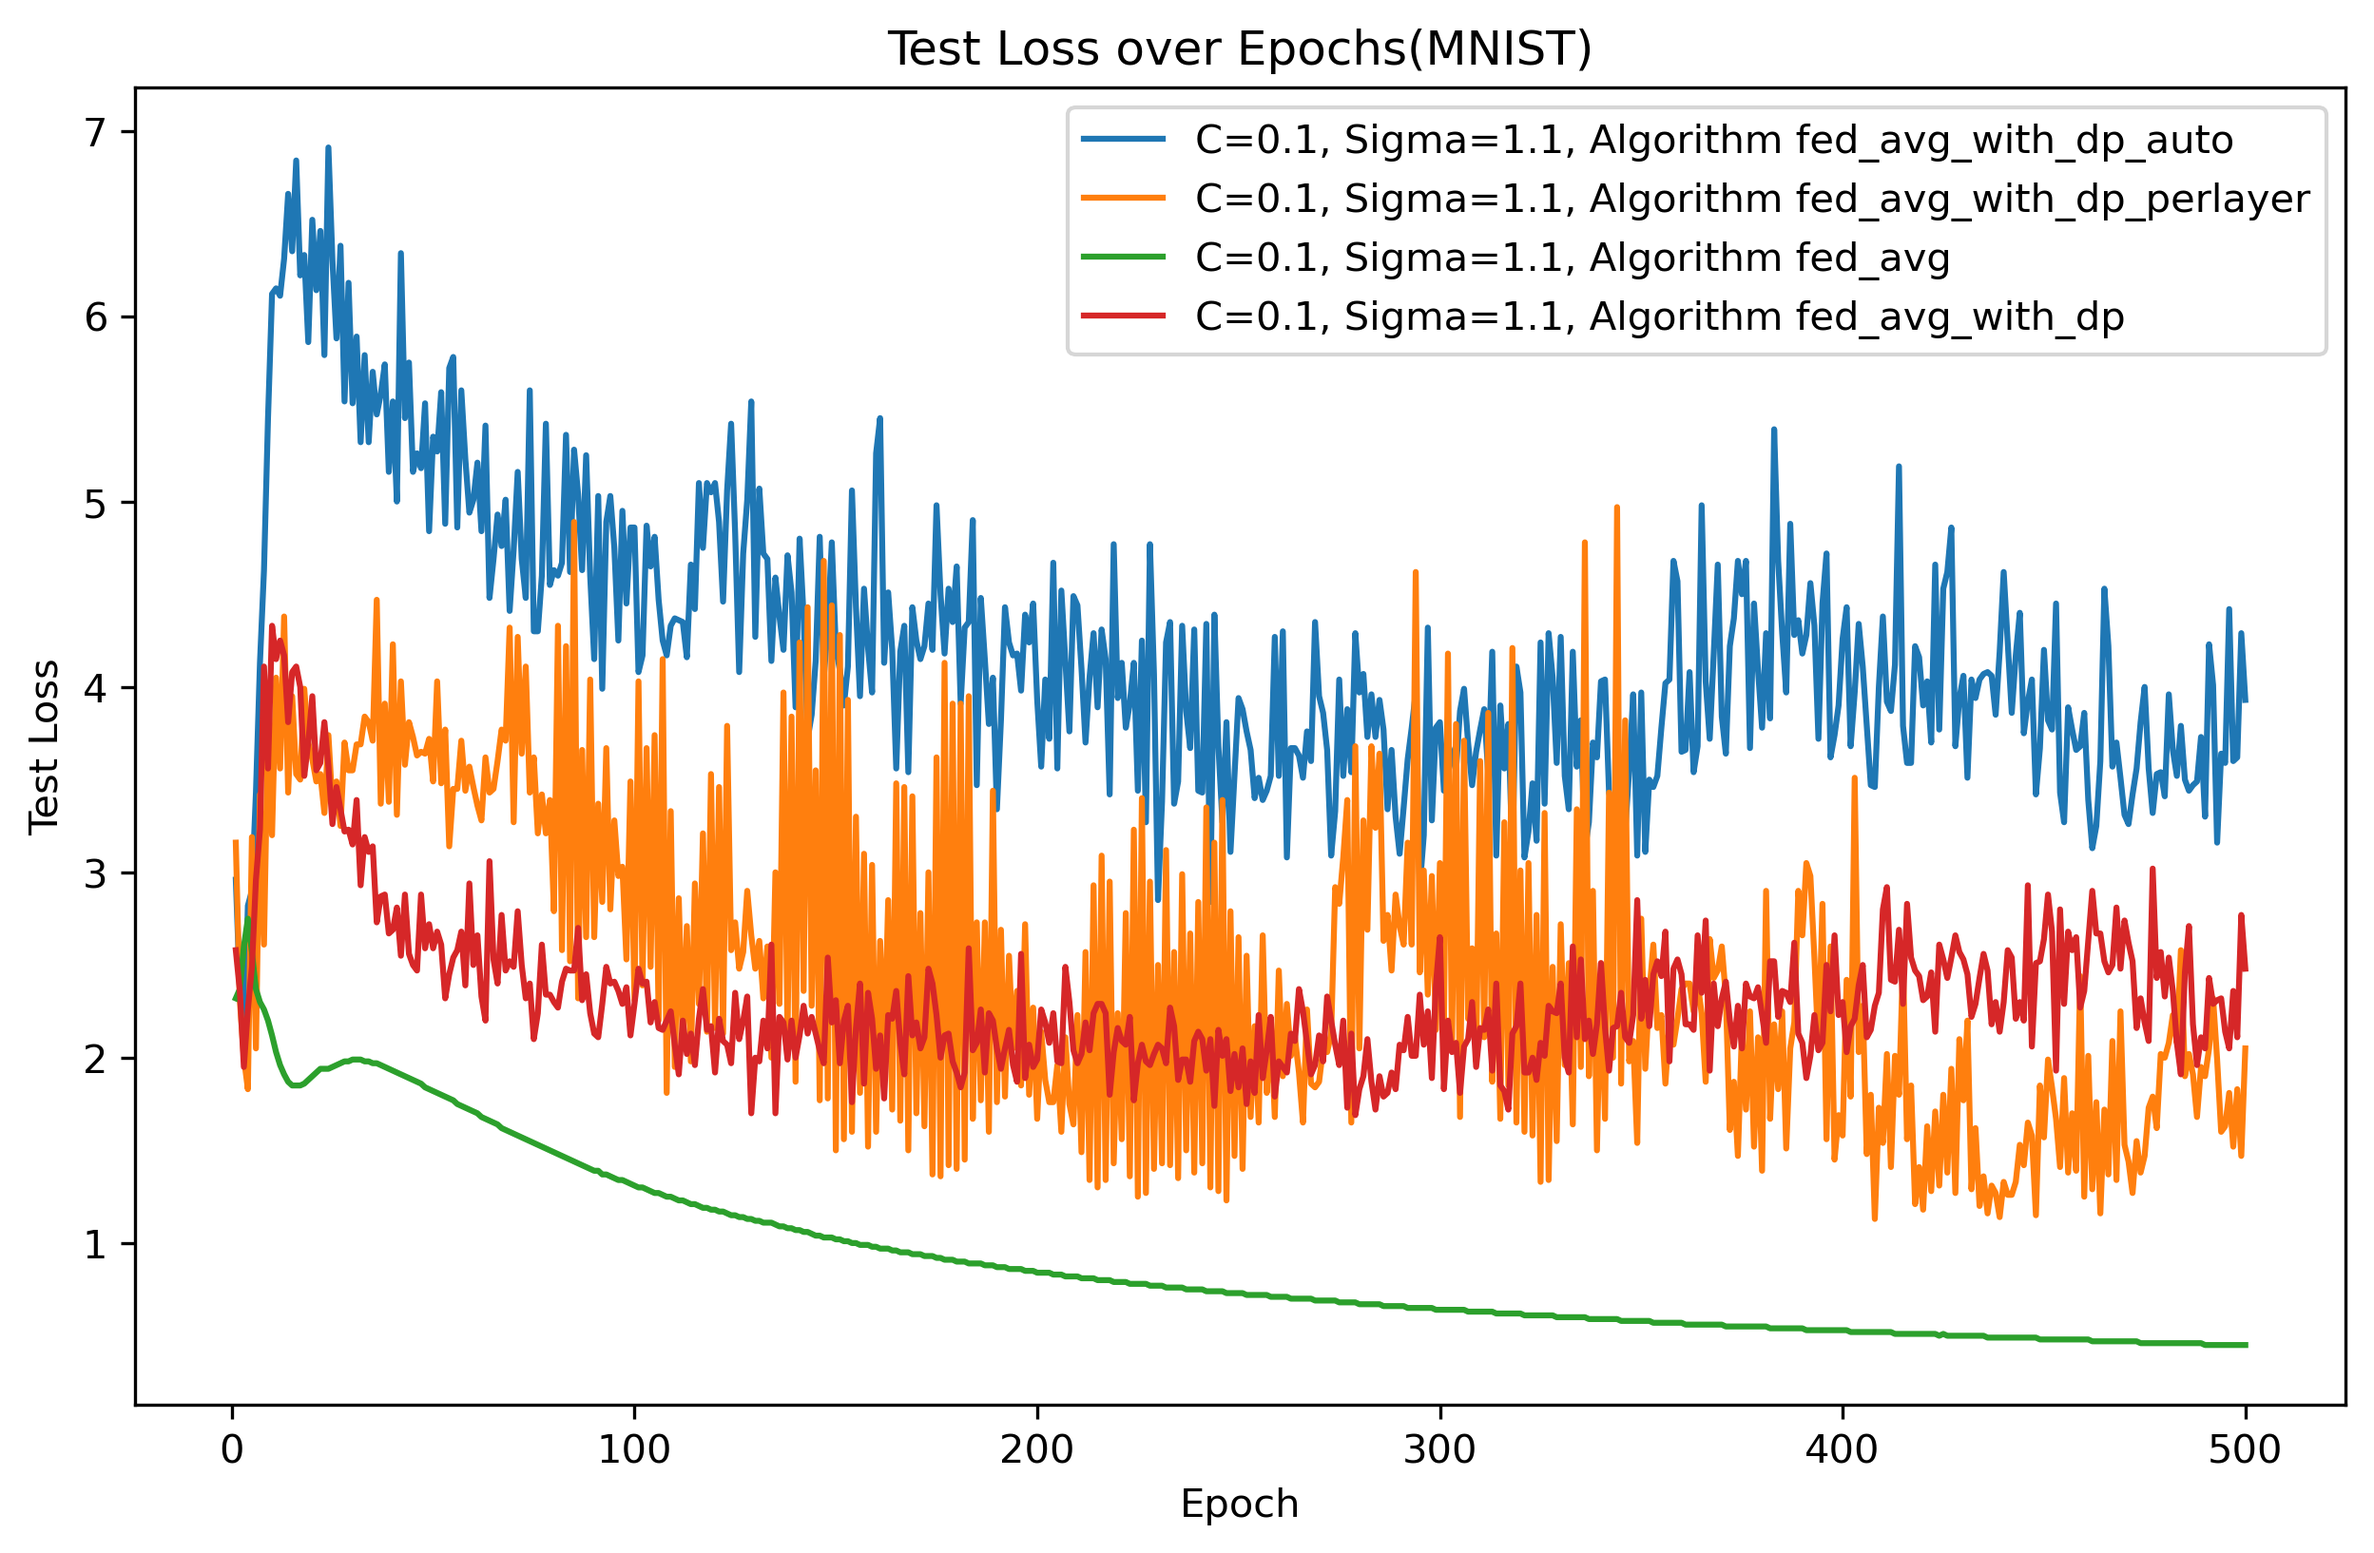
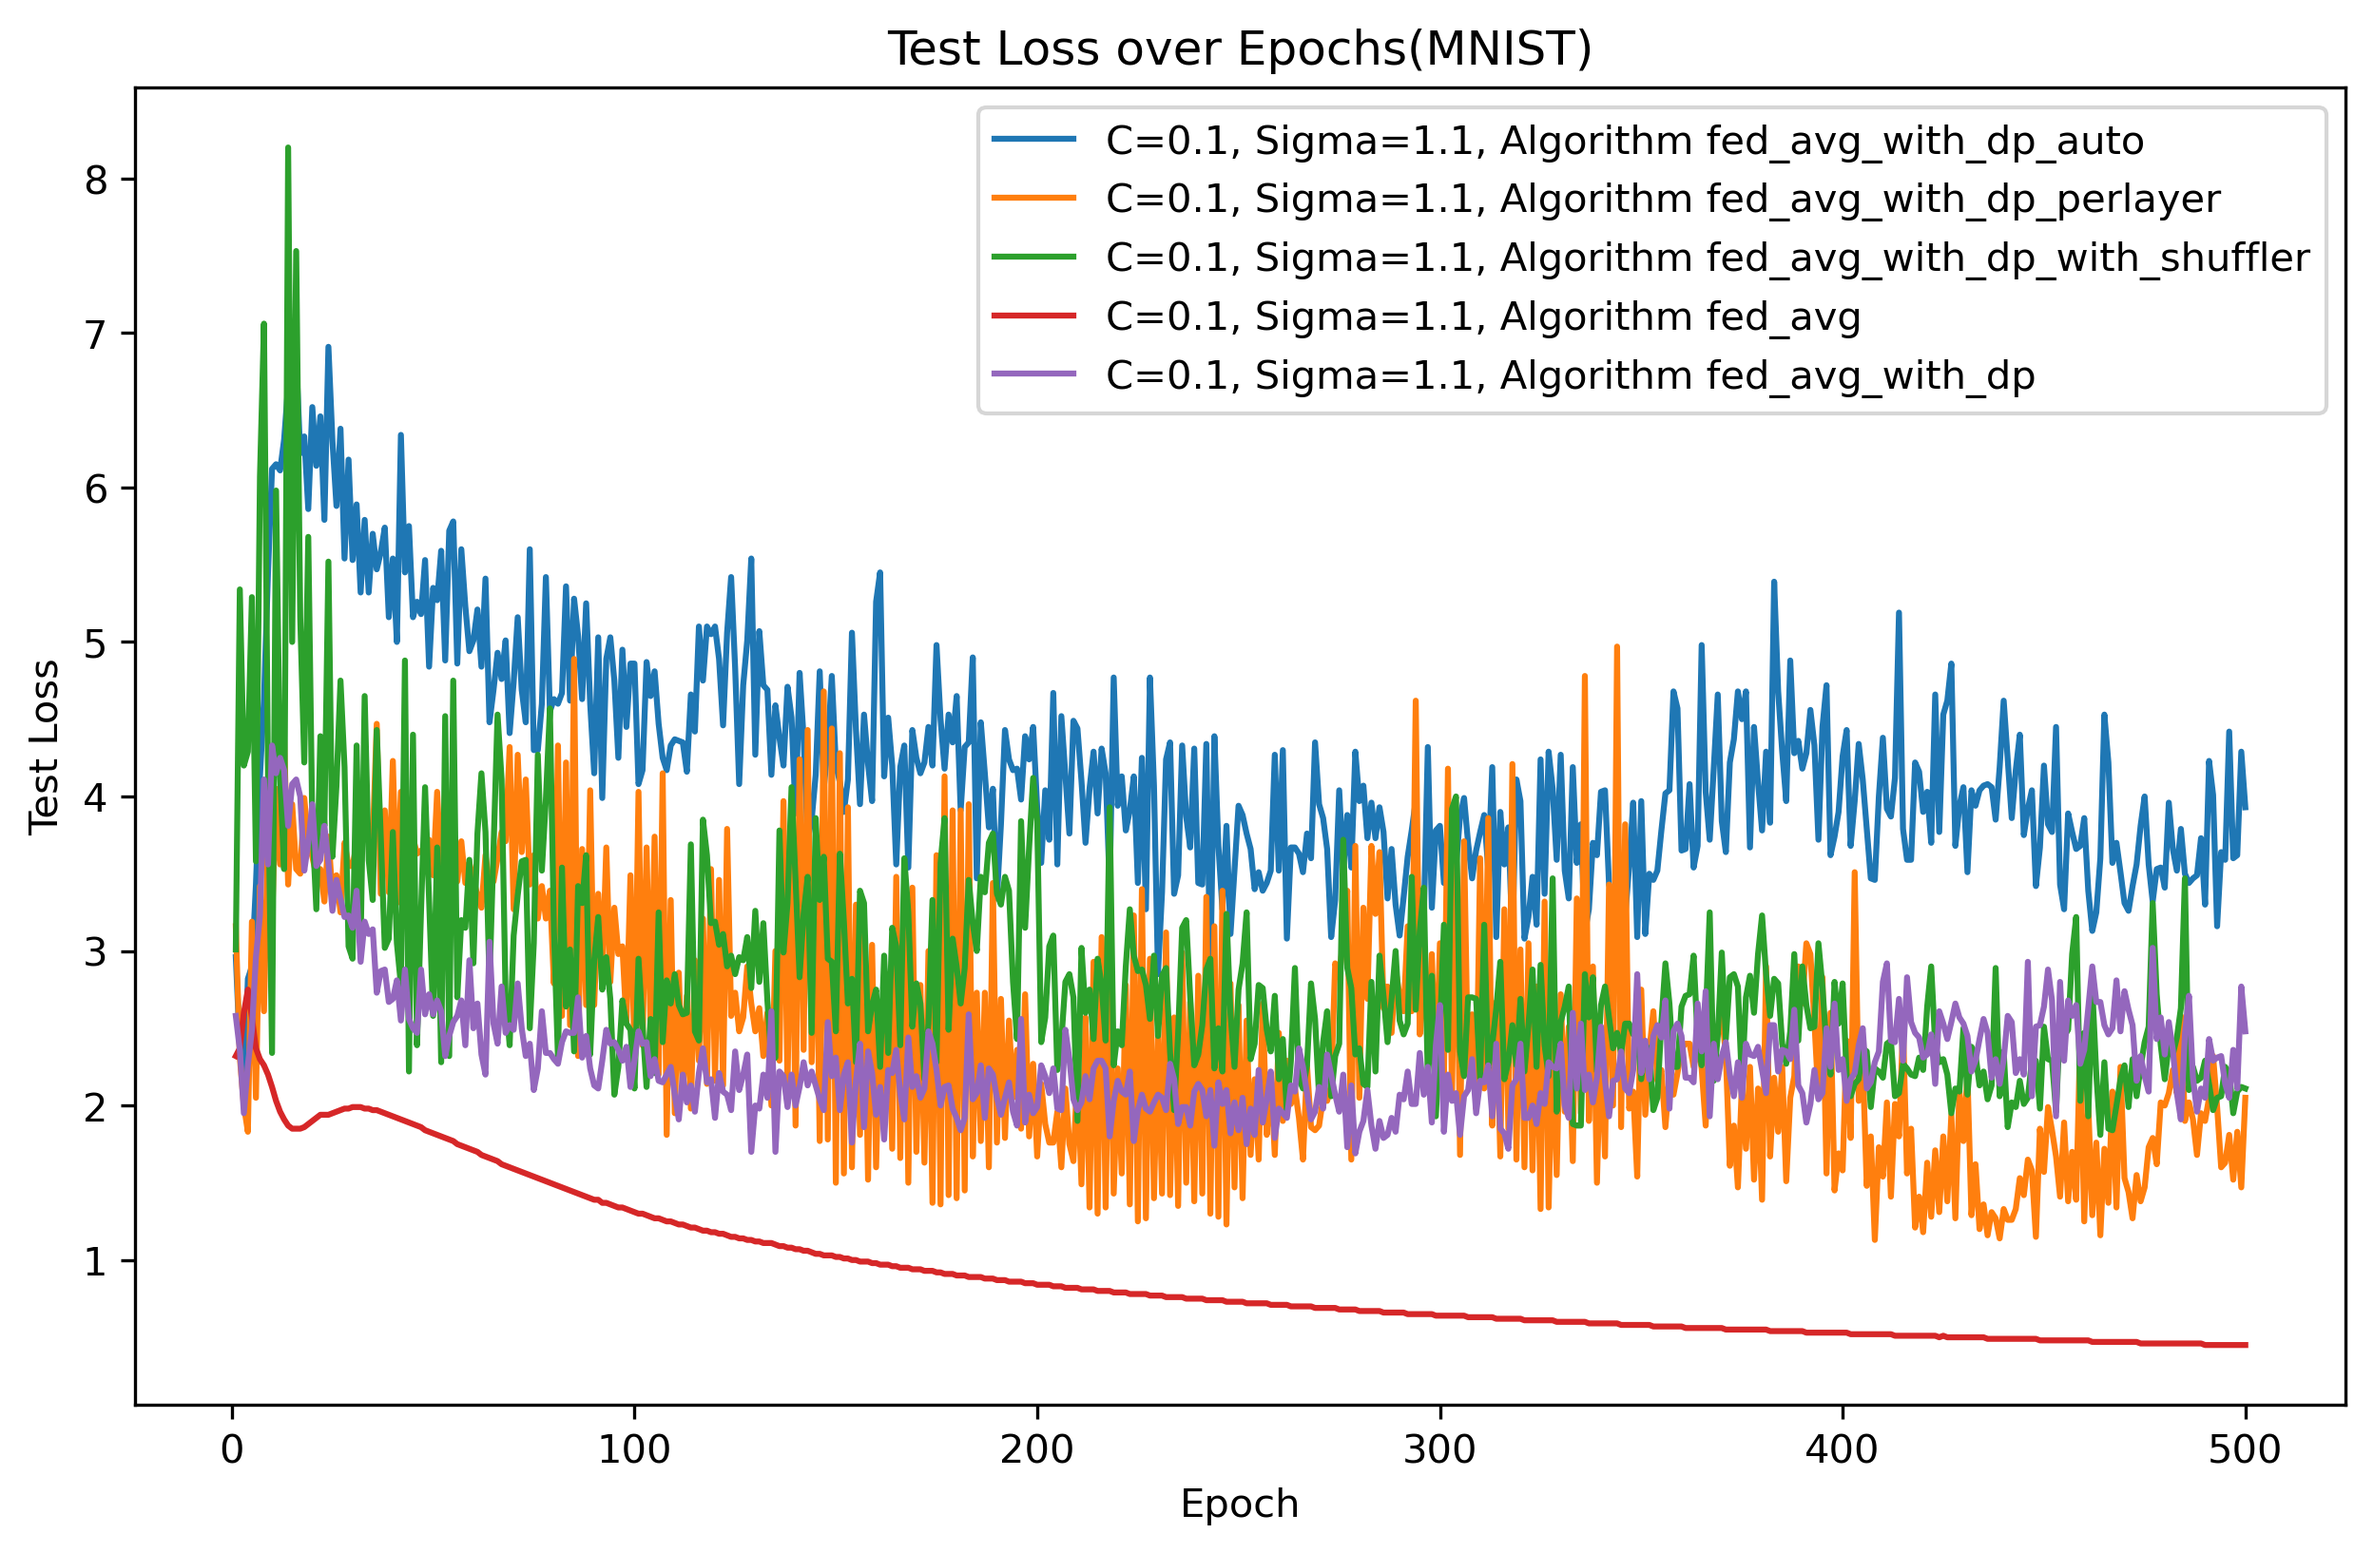
chore: complete the test_acc/loss image of MNIST dataset(max_norm=0.1_sigma=1.1)

diff --git a/log/plot_loss.py b/log/plot_loss.py
@@ -3,7 +3,7 @@ import pandas as pd
 import os
 import re  # 导入正则表达式模块
 
-directory = './FMNIST/lr=0.001'  # CSV文件目录
+directory = './MNIST/max_norm=0.1_sigma=1.1'  # CSV文件目录
 plt.figure(figsize=(10, 6))  # 设置图形大小
 
 for filename in os.listdir(directory):
@@ -30,7 +30,7 @@ for filename in os.listdir(directory):
 
 plt.xlabel('Epoch')  # 设置X轴标签
 plt.ylabel('Test Loss')  # 设置Y轴标签
-plt.title('Test Loss over Epochs(FMNIST)')  # 设置图形标题
+plt.title('Test Loss over Epochs(MNIST)')  # 设置图形标题
 
 # 调整图例位置和大小
 plt.legend(
@@ -44,7 +44,7 @@ plt.legend(
 # plt.xscale('log')
 
 # 保存为PNG文件，设置dpi为300
-plt.savefig('./FMNIST/lr=0.001/test_loss_FMNIST.png', dpi=300, bbox_inches='tight')
+plt.savefig('./MNIST/max_norm=0.1_sigma=1.1/test_loss_MNIST.png', dpi=300, bbox_inches='tight')
 
 # 展示图形
 plt.show()

diff --git a/log/plot_acc.py b/log/plot_acc.py
@@ -3,7 +3,7 @@ import pandas as pd
 import os
 import re  # 导入正则表达式模块
 
-directory = './MNIST/compare_sigma'  # CSV文件目录
+directory = './MNIST/max_norm=0.1_sigma=1.1'  # CSV文件目录
 plt.figure(figsize=(10, 6))  # 设置图形大小
 
 for filename in os.listdir(directory):
@@ -44,7 +44,7 @@ plt.legend(
 # plt.xscale('log')
 
 # 保存为PNG文件，设置dpi为300
-plt.savefig('./MNIST/compare_sigma/test_accuracy_MNIST.png', dpi=300, bbox_inches='tight')
+plt.savefig('./MNIST/max_norm=0.1_sigma=1.1/test_accuracy_MNIST.png', dpi=300, bbox_inches='tight')
 
 # 展示图形
 plt.show()
